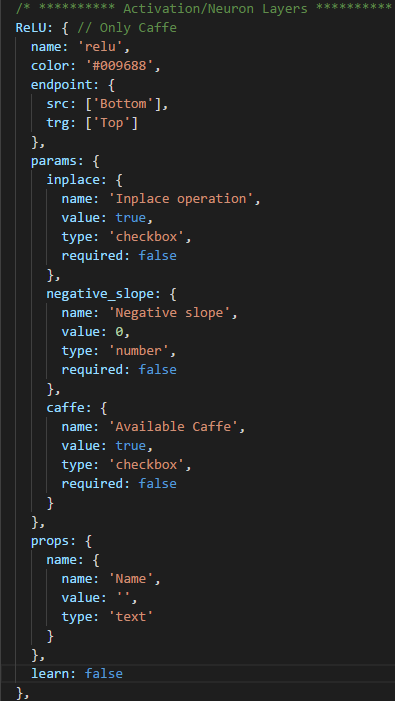
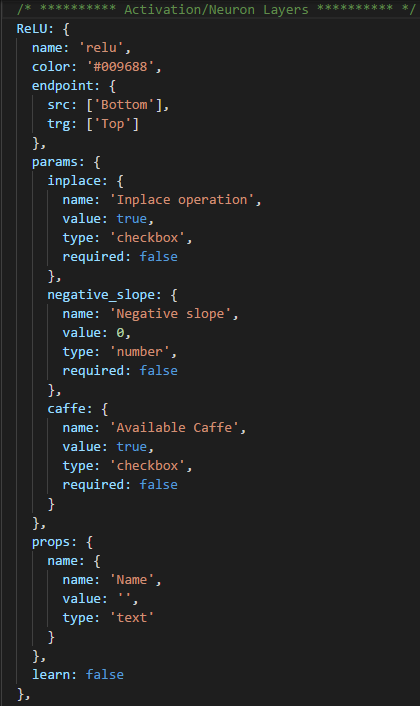
Remove Only Caffe comment

diff --git a/docs/source/adding_new_layers.md b/docs/source/adding_new_layers.md
@@ -29,7 +29,7 @@
 <img src="layerdetails.png" />
 
 - Here is a whole layer shown named ```ReLU```. It is a ```Activation/Neuron Layer```, that's why it is kept below the line ```/* ********** Activation/Neron Layers ********** */```.
-- Then add ```// Only Caffe```, because we want to add this layer for Caffe.
+- Then add the suitable comment for you layer or leave it empty if it is not for any specific framework.
 - Keywords' explanation:
     - name: Name of the layer.
     - color: Color of the layer to be shown in frontend.

diff --git a/tutorials/adding_new_layers.md b/tutorials/adding_new_layers.md
@@ -29,7 +29,7 @@
 <img src="layerdetails.png" />
 
 - Here is a whole layer shown named ```ReLU```. It is a ```Activation/Neuron Layer```, that's why it is kept below the line ```/* ********** Activation/Neron Layers ********** */```.
-- Then add ```// Only Caffe```, because we want to add this layer for Caffe.
+- Then add the suitable comment for you layer or leave it empty if it is not for any specific framework.
 - Keywords' explanation:
     - name: Name of the layer.
     - color: Color of the layer to be shown in frontend.
